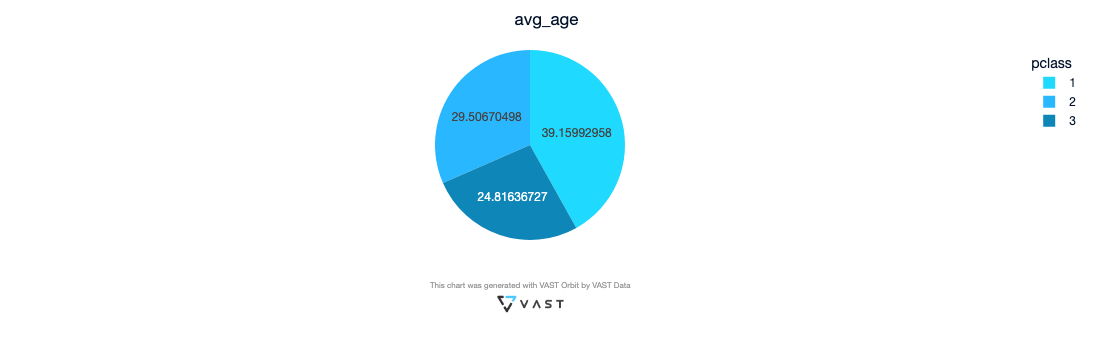
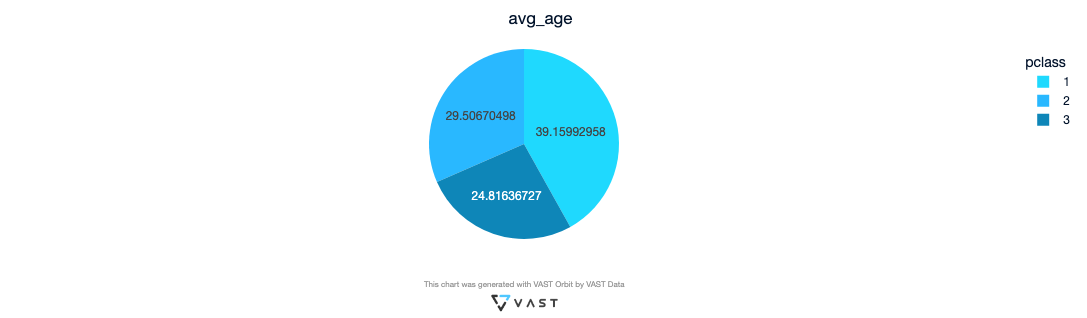
README Corrections

Changed region(s): [[0.3947, 0.1415, 0.5768, 0.9906], [0.9411, 0.1698, 1.0, 0.3962], [0.4554, 0.0283, 0.5465, 0.0849]]

diff --git a/README.md b/README.md
@@ -13,6 +13,7 @@
 [![codecov](https://codecov.io/gh/vastdata-dev/vastorbit/branch/main/graph/badge.svg?token=a6GiFYI9at)](https://codecov.io/gh/vastdata-dev/vastorbit)
 [![Code style: black](https://img.shields.io/badge/code%20style-black-000000.svg)](https://github.com/psf/black)
 [![linting: pylint](https://img.shields.io/badge/linting-pylint-yellowgreen)](https://github.com/pylint-dev/pylint)
+[![Slack](https://img.shields.io/badge/Slack-VAST%20Support-4A154B?logo=slack&logoColor=white)](https://vastsupport.slack.com)
 
 ## Trailer Video
 
@@ -554,4 +555,4 @@ Enjoy!
 
 For contribution guidelines and additional support documentation, please refer to the project documentation.
 
-For questions and community support, join our Slack channel: [![Slack](https://img.shields.io/badge/Slack-VAST%20Support-4A154B?logo=slack&logoColor=white)](https://vastsupport.slack.com)
+For questions and community support, join our Slack channel: https://vastsupport.slack.com